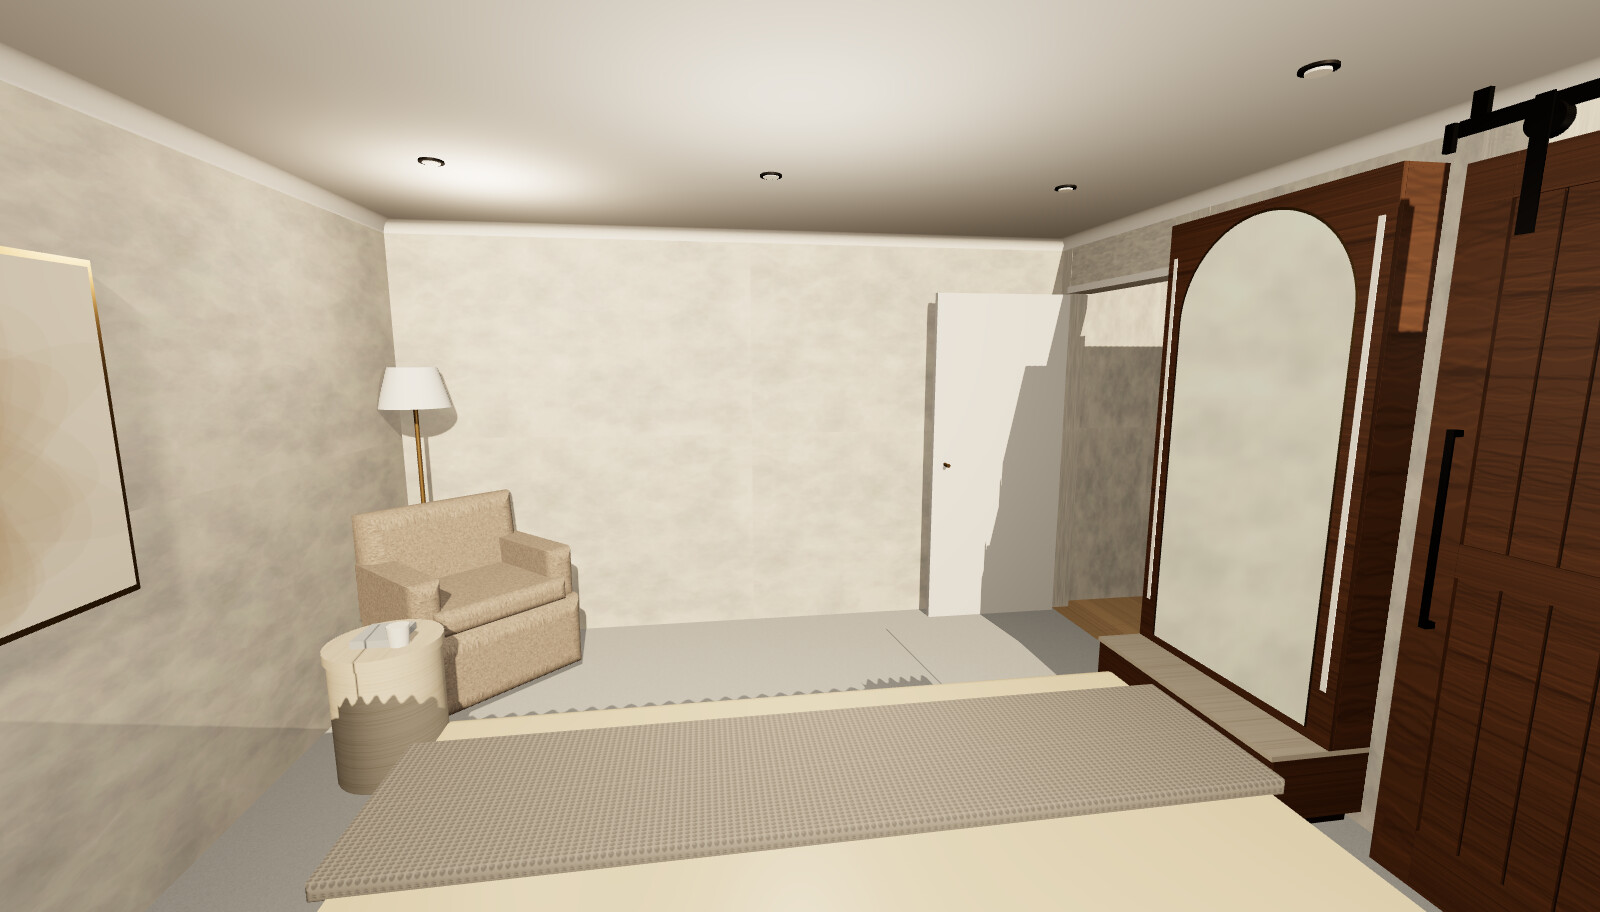
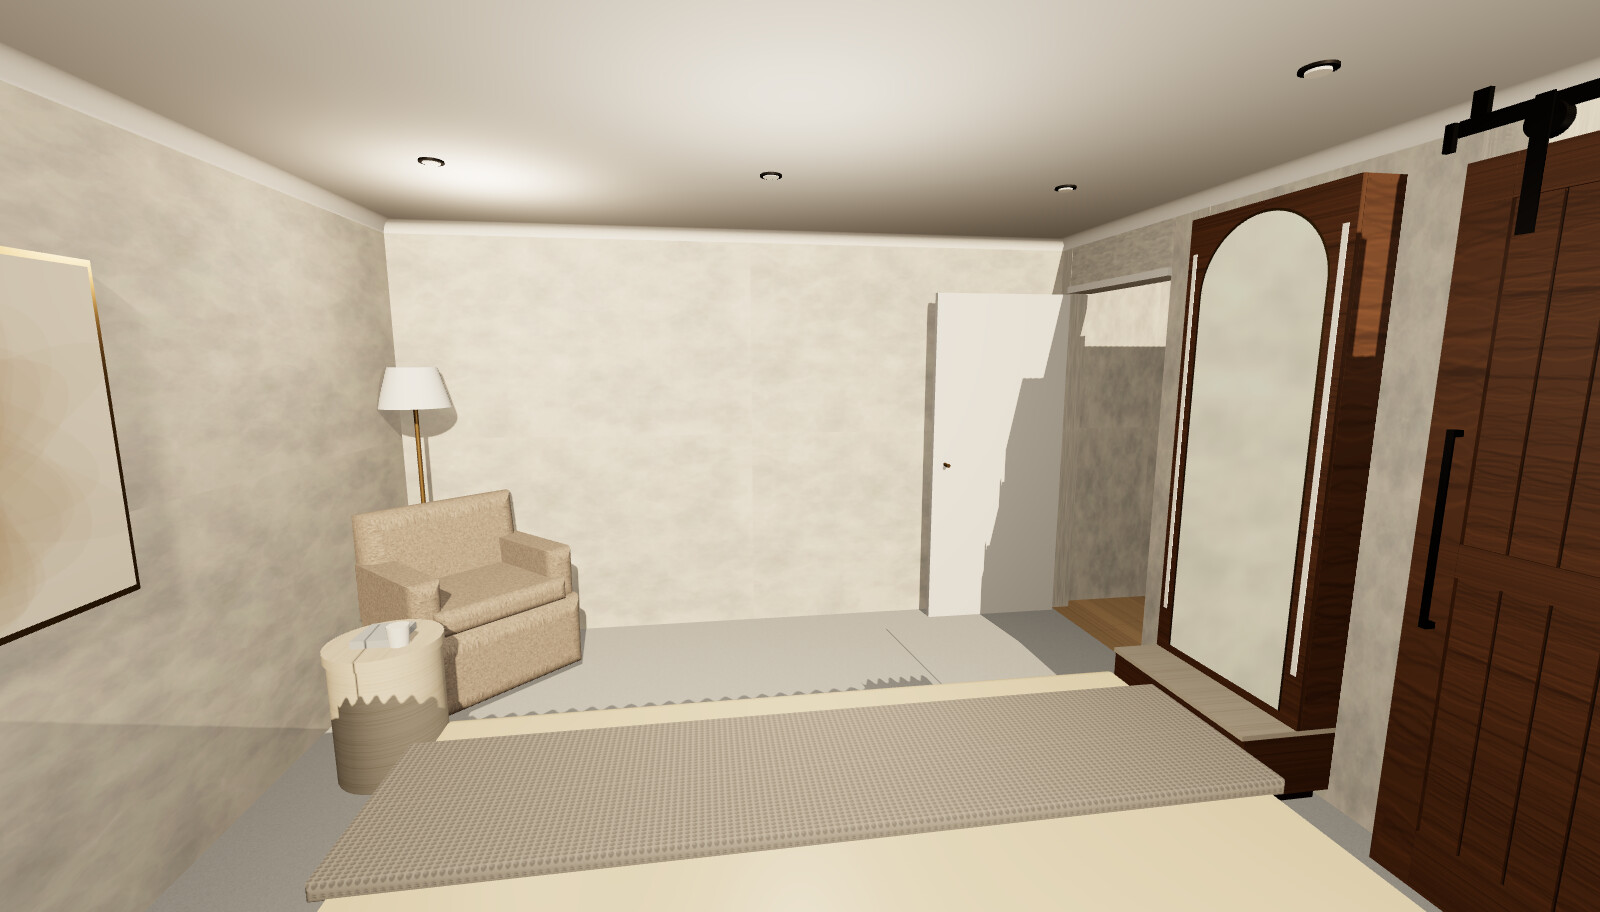
Narrow drawer + arched mirror cabinet to 750 mm (mirror door 600 x 1880)
Claude-Session: https://claude.ai/code/session_01P4LkCESWoGV8P5QgBbWSmy

Changed region(s): [[0.7812, 0.1535, 0.9062, 0.9211], [0.6875, 0.2456, 0.7812, 0.7368], [0.625, 0.3991, 0.6562, 0.4298]]

diff --git a/renders/bedroom-1-3d.html b/renders/bedroom-1-3d.html
@@ -196,22 +196,23 @@ cyl(0.14,0.75,0.14,0.012,0.012,1.5,brass,8); cyl(0.14,0.01,0.14,0.12,0.14,0.02,b
 cyl(0.14,1.5,0.14,0.12,0.18,0.22,mat('#f4f4f2',0.9,0,{side:THREE.DoubleSide}),32);
 const BACK='none';
 
-// ---------- EAST wall (z 1.2-2.2): floor drawer + designer arched mirror cabinet with storage behind the mirror ----------
-box(3.64,3.97,0,0.05,1.23,2.17,mat('#2e1d12',0.7));                        // recessed toe-kick
-box(3.62,4.0,0.05,0.28,1.2,2.2,walnut);                                    // drawer box 1000 x 380 x 300
-box(3.615,3.62,0.065,0.265,1.21,2.19,walnut);                              // drawer front
-box(3.6,3.615,0.2,0.215,1.58,1.82,brass);                                  // long pull
-box(3.61,4.0,0.28,0.3,1.2,2.2,travertine);                                 // stone top
-const MOPEN=P.get('mopen')==='1', CB0=0.30, CB1=2.25, CZ=1.7, AW=0.82, AH=1.88, AB=0.335;   // cabinet 1000 W x 1950 H x 150 D resting on the drawer top, arched door 820 x 1880
+// ---------- EAST wall (z 1.325-2.075): 750-wide floor drawer + designer arched mirror cabinet with storage behind the mirror ----------
+const UW=0.75, CZ=1.7, U0=CZ-UW/2, U1=CZ+UW/2;
+box(3.64,3.97,0,0.05,U0+0.03,U1-0.03,mat('#2e1d12',0.7));                  // recessed toe-kick
+box(3.62,4.0,0.05,0.28,U0,U1,walnut);                                      // drawer box 750 x 380 x 300
+box(3.615,3.62,0.065,0.265,U0+0.01,U1-0.01,walnut);                        // drawer front
+box(3.6,3.615,0.2,0.215,CZ-0.12,CZ+0.12,brass);                            // long pull
+box(3.61,4.0,0.28,0.3,U0,U1,travertine);                                   // stone top
+const MOPEN=P.get('mopen')==='1', CB0=0.30, CB1=2.25, AW=0.60, AH=1.88, AB=0.335;   // cabinet 750 W x 1950 H x 150 D resting on the drawer top, arched door 600 x 1880
 function archShape(w,h,ox=0,oy=0){ const sh=new THREE.Shape(); sh.moveTo(ox-w/2,oy); sh.lineTo(ox+w/2,oy); sh.lineTo(ox+w/2,oy+h-w/2); sh.absarc(ox,oy+h-w/2,w/2,0,Math.PI,false); sh.lineTo(ox-w/2,oy); return sh; }
 const cabIn=mat('#e9dfd0',0.7);
-box(3.85,4.0,CB0,CB0+0.018,1.2,2.2,walnut); box(3.85,4.0,CB1-0.018,CB1,1.2,2.2,walnut);          // bottom / top
-box(3.85,4.0,CB0,CB1,1.2,1.218,walnut); box(3.85,4.0,CB0,CB1,2.182,2.2,walnut);                    // sides
-box(3.985,4.0,CB0,CB1,1.218,2.182,cabIn);                                                          // back
-for(const y of [0.62,0.92,1.22,1.52,1.82,2.05]) box(3.865,3.985,y,y+0.012,1.218,2.182,mat('#dfe6e6',0.15,0,{transparent:true,opacity:0.55}),false); // glass shelves
-for(const [y,z,r,h,c] of [[0.632,1.5,0.03,0.12,'#d8c3a5'],[0.932,1.45,0.025,0.11,'#c9a27a'],[0.932,1.55,0.02,0.14,'#f1ece4'],[1.232,1.75,0.03,0.09,'#d8c3a5'],[1.232,1.9,0.022,0.13,'#7d8f7a'],[1.532,1.5,0.028,0.08,'#e8d7c0'],[1.532,1.95,0.02,0.15,'#b8875b'],[1.832,1.7,0.035,0.1,'#efe9df']]) cyl(3.93,y+h/2,z,r,r,h,mat(c,0.4),20);
-box(3.865,3.875,CB1-0.04,CB1-0.03,1.23,2.17,mat('#fffaf0',0.3,0,{emissive:'#ffe2b8',emissiveIntensity:MOPEN?1.5:0}),false);   // inside LED (door sensor)
-{ const fr=new THREE.Shape(); fr.moveTo(-0.5,0); fr.lineTo(0.5,0); fr.lineTo(0.5,CB1-CB0); fr.lineTo(-0.5,CB1-CB0); fr.lineTo(-0.5,0); fr.holes.push(archShape(AW,AH,0,AB-CB0));   // walnut face frame with arched opening
+box(3.85,4.0,CB0,CB0+0.018,U0,U1,walnut); box(3.85,4.0,CB1-0.018,CB1,U0,U1,walnut);          // bottom / top
+box(3.85,4.0,CB0,CB1,U0,U0+0.018,walnut); box(3.85,4.0,CB0,CB1,U1-0.018,U1,walnut);                    // sides
+box(3.985,4.0,CB0,CB1,U0+0.018,U1-0.018,cabIn);                                                          // back
+for(const y of [0.62,0.92,1.22,1.52,1.82,2.05]) box(3.865,3.985,y,y+0.012,U0+0.018,U1-0.018,mat('#dfe6e6',0.15,0,{transparent:true,opacity:0.55}),false); // glass shelves
+for(const [y,z,r,h,c] of [[0.632,1.6,0.03,0.12,'#d8c3a5'],[0.932,1.55,0.025,0.11,'#c9a27a'],[0.932,1.65,0.02,0.14,'#f1ece4'],[1.232,1.75,0.03,0.09,'#d8c3a5'],[1.232,1.85,0.022,0.13,'#7d8f7a'],[1.532,1.6,0.028,0.08,'#e8d7c0'],[1.532,1.85,0.02,0.15,'#b8875b'],[1.832,1.7,0.035,0.1,'#efe9df']]) cyl(3.93,y+h/2,z,r,r,h,mat(c,0.4),20);
+box(3.865,3.875,CB1-0.04,CB1-0.03,U0+0.03,U1-0.03,mat('#fffaf0',0.3,0,{emissive:'#ffe2b8',emissiveIntensity:MOPEN?1.5:0}),false);   // inside LED (door sensor)
+{ const fr=new THREE.Shape(); fr.moveTo(-UW/2,0); fr.lineTo(UW/2,0); fr.lineTo(UW/2,CB1-CB0); fr.lineTo(-UW/2,CB1-CB0); fr.lineTo(-UW/2,0); fr.holes.push(archShape(AW,AH,0,AB-CB0));   // walnut face frame with arched opening
   const m=new THREE.Mesh(new THREE.ExtrudeGeometry(fr,{depth:0.018,bevelEnabled:false,curveSegments:48}),walnut); m.rotation.y=-Math.PI/2; m.position.set(3.85,CB0,CZ); m.castShadow=true; m.receiveShadow=true; scene.add(m); }
 const DOOR=new THREE.Group(); DOOR.position.set(3.85,AB,CZ-AW/2); DOOR.rotation.y=MOPEN?-1.75:0; scene.add(DOOR);   // hinged on the north (left) edge
 { const b=new THREE.Mesh(new THREE.ExtrudeGeometry(archShape(AW,AH),{depth:0.016,bevelEnabled:false,curveSegments:48}),brass); b.rotation.y=-Math.PI/2; b.position.set(0,0,AW/2); b.castShadow=true; DOOR.add(b);
@@ -275,8 +276,8 @@ const mirrorM=mat('#c9d2d4',0.03,1.0,{envMap:cubeRT.texture});
 const mirror=new THREE.Mesh(new THREE.ShapeGeometry(archShape(AW-0.02,AH-0.01,0,0),48),mirrorM); mirror.rotation.y=-Math.PI/2; mirror.position.set(-0.0165,0.0,AW/2); DOOR.add(mirror);
 // mirror lights (ML): slim opal LED bars in the walnut face frame either side of the arched mirror (2700K, own switch)
 const EVE0=P.get('time')==='evening', ledM=mat('#fffaf0',0.3,0,{emissive:'#ffe2b8',emissiveIntensity:EVE0?2.5:0.15});
-for(const zc of [1.245,2.155]) box(3.829,3.833,0.5,2.1,zc-0.011,zc+0.011,ledM,false,false);
-if(EVE0){ for(const zc of [1.245,2.155]) for(let y=0.6;y<2.1;y+=0.4){ const L=new THREE.PointLight('#ffd9a8',0.28,1.6,1.8); L.position.set(3.78,y,zc); scene.add(L); } }
+for(const zc of [1.3625,2.0375]) box(3.829,3.833,0.5,2.1,zc-0.011,zc+0.011,ledM,false,false);
+if(EVE0){ for(const zc of [1.3625,2.0375]) for(let y=0.6;y<2.1;y+=0.4){ const L=new THREE.PointLight('#ffd9a8',0.28,1.6,1.8); L.position.set(3.78,y,zc); scene.add(L); } }
 
 // ---------- Lighting: morning sun through south window ----------
 scene.add(new THREE.HemisphereLight('#fff8ee','#a08a70',0.55));

diff --git a/cad/make_plan_B_dxf.py b/cad/make_plan_B_dxf.py
@@ -36,10 +36,10 @@ for x0 in (BX0 - 20 - 450, BX1 + 20):
 msp.add_line((700, 80), (3300, 80), dxfattribs={'layer': 'I-CURTAIN'}); text(2000, 170, 'CURTAIN TRACK FIXED TO CEILING (OPERABLE BEHIND BED)', 40, 'I-CURTAIN')
 # artwork north wall, mirror unit east wall, lounge NW
 rect(0, RL - 3700, 40, RL - 1900, 'I-ART'); text(130, RL - 2800, 'ARTWORK 1800 x 900, CENTRE 1450 AFF', 50, 'I-ART', rot=90)
-rect(3620, RL - 2200, 4000, RL - 1200, 'I-JOIN-MIRROR'); rect(3850, RL - 2200, 4000, RL - 1200, 'I-JOIN-MIRROR'); rect(3832, RL - 2110, 3850, RL - 1290, 'I-JOIN-MIRROR')
-msp.add_arc(center=(3850, RL - 1290), radius=820, start_angle=180, end_angle=270, dxfattribs={'layer': 'A-CLEAR'})
-for zc in (1245, 2155): rect(3825, RL - zc - 12, 3850, RL - zc + 12, 'E-LITE')
-text(3740, RL - 1700, 'FLOOR DRAWER 1000x380x300 + ARCHED MIRROR CABINET 1000x1950x150 RESTING ON IT', 30, 'I-JOIN-MIRROR', rot=90)
+rect(3620, RL - 2075, 4000, RL - 1325, 'I-JOIN-MIRROR'); rect(3850, RL - 2075, 4000, RL - 1325, 'I-JOIN-MIRROR'); rect(3832, RL - 2000, 3850, RL - 1400, 'I-JOIN-MIRROR')
+msp.add_arc(center=(3850, RL - 1400), radius=600, start_angle=180, end_angle=270, dxfattribs={'layer': 'A-CLEAR'})
+for zc in (1362, 2038): rect(3825, RL - zc - 12, 3850, RL - zc + 12, 'E-LITE')
+text(3740, RL - 1700, 'FLOOR DRAWER 750x380x300 + ARCHED MIRROR CABINET 750x1950x150 RESTING ON IT', 30, 'I-JOIN-MIRROR', rot=90)
 cx, cy, a = 500, RL - 550, math.radians(40)
 msp.add_lwpolyline([(cx + x * math.cos(a) - y * math.sin(a), cy + x * math.sin(a) + y * math.cos(a)) for x, y in [(-360, -360), (360, -360), (360, 360), (-360, 360)]], close=True, dxfattribs={'layer': 'I-FURN'})
 text(cx, cy, 'CHAIR', 45, 'I-FURN'); msp.add_circle((420, RL - 1300), 200, dxfattribs={'layer': 'I-FURN'}); text(420, RL - 1300, 'TABLE', 40, 'I-FURN')
@@ -50,7 +50,7 @@ dh(0, RW, RL + T, RL + 650); dv(0, RL, -T, -650)
 yd = HB + 900
 dh(0, BX0, yd, yd + 120); dh(BX0, BX1, yd + 150, yd + 270); dh(BX1, RW, yd, yd + 120)
 dv(0, HB, 1200, 1200); dv(HB, FOOT, 1200, 1200); dv(FOOT, RL, 1200, 1200)
-dh(850, 3150, -T, -520); dv(RL - 2200, RL - 1200, 3550, 3550)
+dh(850, 3150, -T, -520); dv(RL - 2075, RL - 1325, 3550, 3550)
 tb_x = RW + 1700; rect(tb_x, -T, tb_x + 3200, -T + 1500, 'A-TEXT')
 for i, s in enumerate(['BEDROOM 1 - LAYOUT B: HEAD TO WINDOW', f'Elyse king 2060 x 2430, headboard 930 H, {int(GAP)} gap to window wall',
                        'Room 4000 x 4900, ceiling 2400, carpet', 'Units: millimetres   Scale 1:25 at A3 (plot)', 'Origin 0,0 = inner SW corner; +X east, +Y north',
@@ -79,7 +79,7 @@ rows = [('TAG', 'FITTING', 'X FROM W', 'FROM N', 'CIRCUIT / SWITCH'),
         ('A2', 'Gimbal 8W 24-36 deg, aim art 1450 AFF', '700', '3200', 'C2 feature dimmer'),
         ('B1', 'Gimbal 8W 24-36 deg, wash barn door', '3300', '2400', 'C2 feature dimmer'),
         ('B2', 'Gimbal 8W 24-36 deg, wash barn door', '3300', '3200', 'C2 feature dimmer'),
-        ('ML', '2 opal LED bars 1600 long, either side of mirror', '3830', '1245/2155', 'C5 switch at mirror'),
+        ('ML', '2 opal LED bars 1600 long, either side of mirror', '3830', '1362/2038', 'C5 switch at mirror'),
         ('PEN', '2 bedside pendants, 600-700 above NS', '725/3275', '4150', 'C3 2-way entry + bed'),
         ('W1', 'Downlight in robe walkway', '4650', '2850', 'C4 sensor or switch'),
         ('ALL', 'Symmetric about bed axis X=2000; 2700K CRI90+ dim', '', '', 'Licensed electrician')]

diff --git a/plans/make_plan_B.py b/plans/make_plan_B.py
@@ -76,10 +76,10 @@ for x0, x1 in NS:
 # artwork on the west wall, between the reading corner and the west nightstand
 r(0, 1.9, 0.04, 3.7, '#c77d5a', '#b08d57', 1.2); t(X(0.14), Y(2.8), 'ARTWORK 1800 × 900 (centre 1450 AFF)', 10.5, '#8a4f33', 'middle', '700', rot=-90)
 # mirror + floor drawer: east wall between door and robe walkway (faces west)
-# floor drawer 1000 x 380 + arched mirror cabinet 1000 x 1950 x 150 resting on its top (mirror door hinged on north edge)
-r(3.62, 1.2, 4.0, 2.2, WAL_L, WAL, 1.5); r(3.85, 1.2, 4.0, 2.2, 'none', WAL, 1.2, dash='4 3'); r(3.832, 1.29, 3.85, 2.11, MIR, '#b08d57', 1.2)
-b.append(f'<path d="M{X(3.85)} {Y(2.11)} A{0.82*S} {0.82*S} 0 0 1 {X(3.85-0.82)} {Y(1.29)}" fill="none" stroke="{WAL}" stroke-width="0.8" stroke-dasharray="3 3"/>')
-for zc in (1.245, 2.155): r(3.825, zc - 0.012, 3.85, zc + 0.012, '#fff1b8', LIGHT, 1.2)
+# floor drawer 750 x 380 + arched mirror cabinet 1000 x 1950 x 150 resting on its top (mirror door hinged on north edge)
+r(3.62, 1.325, 4.0, 2.075, WAL_L, WAL, 1.5); r(3.85, 1.325, 4.0, 2.075, 'none', WAL, 1.2, dash='4 3'); r(3.832, 1.4, 3.85, 2.0, MIR, '#b08d57', 1.2)
+b.append(f'<path d="M{X(3.85)} {Y(2.0)} A{0.6*S} {0.6*S} 0 0 1 {X(3.85-0.6)} {Y(1.4)}" fill="none" stroke="{WAL}" stroke-width="0.8" stroke-dasharray="3 3"/>')
+for zc in (1.3625, 2.0375): r(3.825, zc - 0.012, 3.85, zc + 0.012, '#fff1b8', LIGHT, 1.2)
 t(X(3.74), Y(1.7), 'DRAWER + MIRROR CABINET', 9, WAL, 'middle', '700', rot=-90)
 # lounge corner: north-west
 b.append(f'<g transform="translate({X(0.5):.1f} {Y(0.55):.1f}) rotate(-40)"><rect x="{-0.36*S:.1f}" y="{-0.36*S:.1f}" width="{0.72*S:.1f}" height="{0.72*S:.1f}" rx="16" fill="#cbbfb0" stroke="#7d6e60" stroke-width="1.5"/><rect x="{-0.36*S:.1f}" y="{-0.36*S:.1f}" width="{0.72*S:.1f}" height="{0.16*S:.1f}" rx="8" fill="#a8998a"/></g>')
@@ -99,7 +99,7 @@ dimv(1.2, FOOT, HB_Z1, '2430', -6)
 dimv(1.2, HB_Z1, RL, f'{round(GAP*1000)} gap', 14, ACC, 11)
 dimh(NS[1][0], NS[1][1], NS_Z0 - 0.08, '450', -5, QUIET, 10)
 dimh(0.85, 3.15, 5.08, 'window 2300 (centred, sill 560)', 14, BLUE, 10.5)
-dimv(3.55, 1.2, 2.2, '1000', -6, QUIET, 10)
+dimv(3.55, 1.325, 2.075, '750', -6, QUIET, 10)
 dimv(0.3, 1.9, 3.7, 'art 1800', 14, '#8a4f33', 10)
 
 # legend + notes
